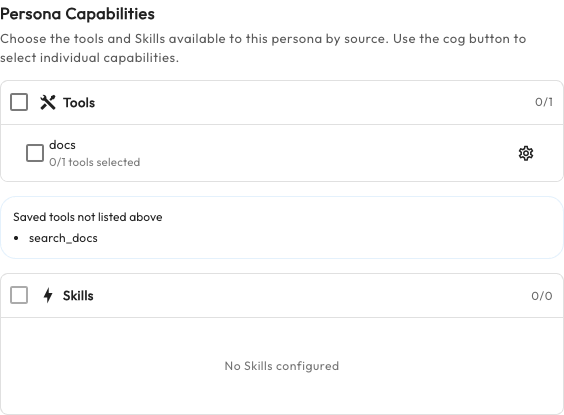
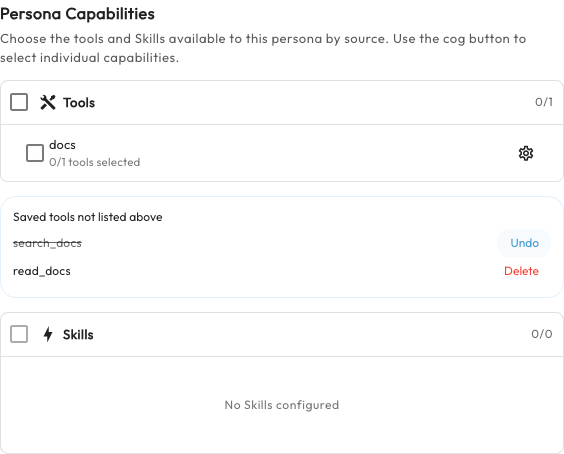
feat: stage removal of unlisted persona tools

diff --git a/dashboard/src/components/shared/PersonaCapabilitiesEditor.vue b/dashboard/src/components/shared/PersonaCapabilitiesEditor.vue
@@ -8,6 +8,10 @@ const props = defineProps({
     type: [Array, null],
     default: null,
   },
+  removedUnlistedTools: {
+    type: [Array, null],
+    default: null,
+  },
   skills: {
     type: [Array, null],
     default: null,
@@ -46,7 +50,11 @@ const props = defineProps({
   },
 });
 
-const emit = defineEmits(["update:tools", "update:skills"]);
+const emit = defineEmits([
+  "update:tools",
+  "update:skills",
+  "update:removedUnlistedTools",
+]);
 const { t } = useI18n();
 const { tm } = useModuleI18n("core.shared");
 
@@ -131,6 +139,16 @@ const unlistedSavedTools = computed(() => {
   const listedNames = new Set(toolGroups.value.flatMap((group) => group.toolNames));
   return [...new Set(props.tools.filter((name) => !listedNames.has(name)))];
 });
+
+function toggleUnlistedToolRemoval(name) {
+  const removed = props.removedUnlistedTools;
+  emit(
+    "update:removedUnlistedTools",
+    removed.includes(name)
+      ? removed.filter((item) => item !== name)
+      : [...removed, name],
+  );
+}
 
 const skillItems = computed(() => {
   const items = [];
@@ -404,8 +422,34 @@ async function saveSelectionDialog() {
 
     <v-sheet v-if="!loadingTools && unlistedSavedTools.length" border rounded="lg" class="pa-3">
       <div class="text-subtitle-2 mb-1">{{ tm('personaQuickPreview.unlistedSavedTools') }}</div>
-      <ul class="ps-4 text-body-2">
-        <li v-for="name in unlistedSavedTools" :key="name" class="text-break">{{ name }}</li>
+      <ul class="pa-0 text-body-2">
+        <li
+          v-for="name in unlistedSavedTools"
+          :key="name"
+          class="d-flex align-center justify-space-between ga-2"
+        >
+          <span
+            class="text-break"
+            :class="{
+              'text-decoration-line-through text-medium-emphasis': removedUnlistedTools?.includes(name),
+            }"
+          >
+            {{ name }}
+          </span>
+          <v-btn
+            v-if="removedUnlistedTools && !readonly"
+            type="button"
+            variant="text"
+            size="small"
+            :color="removedUnlistedTools.includes(name) ? 'primary' : 'error'"
+            :disabled="Boolean(saving)"
+            :ripple="false"
+            :aria-label="`${removedUnlistedTools.includes(name) ? tm('personaQuickPreview.undoToolRemoval') : t('core.common.delete')} ${name}`"
+            @click="toggleUnlistedToolRemoval(name)"
+          >
+            {{ removedUnlistedTools.includes(name) ? tm('personaQuickPreview.undoToolRemoval') : t('core.common.delete') }}
+          </v-btn>
+        </li>
       </ul>
     </v-sheet>
 

diff --git a/dashboard/src/components/shared/PersonaForm.vue b/dashboard/src/components/shared/PersonaForm.vue
@@ -72,10 +72,12 @@
                 <PersonaCapabilitiesEditor
                   v-model:tools="personaForm.tools"
                   v-model:skills="personaForm.skills"
+                  v-model:removed-unlisted-tools="removedUnlistedTools"
                   :available-tools="availableTools"
                   :available-skills="availableSkills"
                   :loading-tools="loadingTools"
                   :loading-skills="loadingSkills"
+                  :saving="saving ? 'tools' : ''"
                 />
               </section>
 
@@ -217,6 +219,7 @@ const availableSkills = ref([]);
 const loadingTools = ref(false);
 const loadingSkills = ref(false);
 const existingPersonaIds = ref([]);
+const removedUnlistedTools = ref([]);
 const personaForm = reactive({
   persona_id: "",
   system_prompt: "",
@@ -251,6 +254,7 @@ const systemPromptRules = computed(() => [
 ]);
 
 function initializeForm(persona = null) {
+  removedUnlistedTools.value = [];
   Object.assign(personaForm, {
     persona_id: persona?.persona_id || "",
     system_prompt: persona?.system_prompt || "",
@@ -336,7 +340,8 @@ async function savePersona() {
   const payload = {
     ...personaForm,
     begin_dialogs: [...personaForm.begin_dialogs],
-    tools: personaForm.tools === null ? null : [...personaForm.tools],
+    tools:
+      personaForm.tools?.filter((name) => !removedUnlistedTools.value.includes(name)) ?? null,
     skills: personaForm.skills === null ? null : [...personaForm.skills],
   };
   try {

diff --git a/docs/en/use/mcp.md b/docs/en/use/mcp.md
@@ -129,7 +129,7 @@ After connecting, make sure the tools are available to the current conversation:
 
 The default persona uses all available capabilities. Create or edit a custom persona to restrict the selection. Selecting a globally disabled tool in a persona does not enable it again.
 
-AstrBot registers tools as `mcp__<server>__<tool>`, for example `mcp__github__list_issues`. Chinese server names use a stable six-letter namespace derived from the server name. The persona capabilities panel shows selections missing from the current list under **Saved tools not listed above**. Select a tool by its full name to use it after a rename.
+AstrBot registers tools as `mcp__<server>__<tool>`, for example `mcp__github__list_issues`. Chinese server names use a stable six-letter namespace derived from the server name. The persona capabilities panel shows selections missing from the current list under **Saved tools not listed above**. When editing a persona, click **Delete** to mark an entry for removal or **Undo** to restore it before saving. Select a tool by its full name to use it after a rename.
 
 ![Saved tool names in the persona capabilities panel](./images/mcp-saved-persona-en.png)
 

diff --git a/docs/zh/use/mcp.md b/docs/zh/use/mcp.md
@@ -129,7 +129,7 @@ docker exec astrbot python -m pip install uv
 
 默认人格使用全部可用能力；需要限制工具范围时，请创建或编辑自定义人格。如果工具已在全局管理中停用，仅在人格中选择它不会重新启用工具。
 
-AstrBot 将工具注册为 `mcp__<server>__<tool>`，例如 `mcp__github__list_issues`。中文服务器名称会生成稳定的六字母命名空间。人格能力面板会在**已保存但未列出的工具**中展示当前列表里找不到的选择。要继续使用改名后的工具，请按完整名称重新选择。
+AstrBot 将工具注册为 `mcp__<server>__<tool>`，例如 `mcp__github__list_issues`。中文服务器名称会生成稳定的六字母命名空间。人格能力面板会在**已保存但未列出的工具**中展示当前列表里找不到的选择。编辑人格时，可以点**删除**，在保存前还可以点**撤销**。要继续使用改名后的工具，请按完整名称重新选择。
 
 ![人格能力面板中的已保存工具](./images/mcp-saved-persona-zh.png)
 
